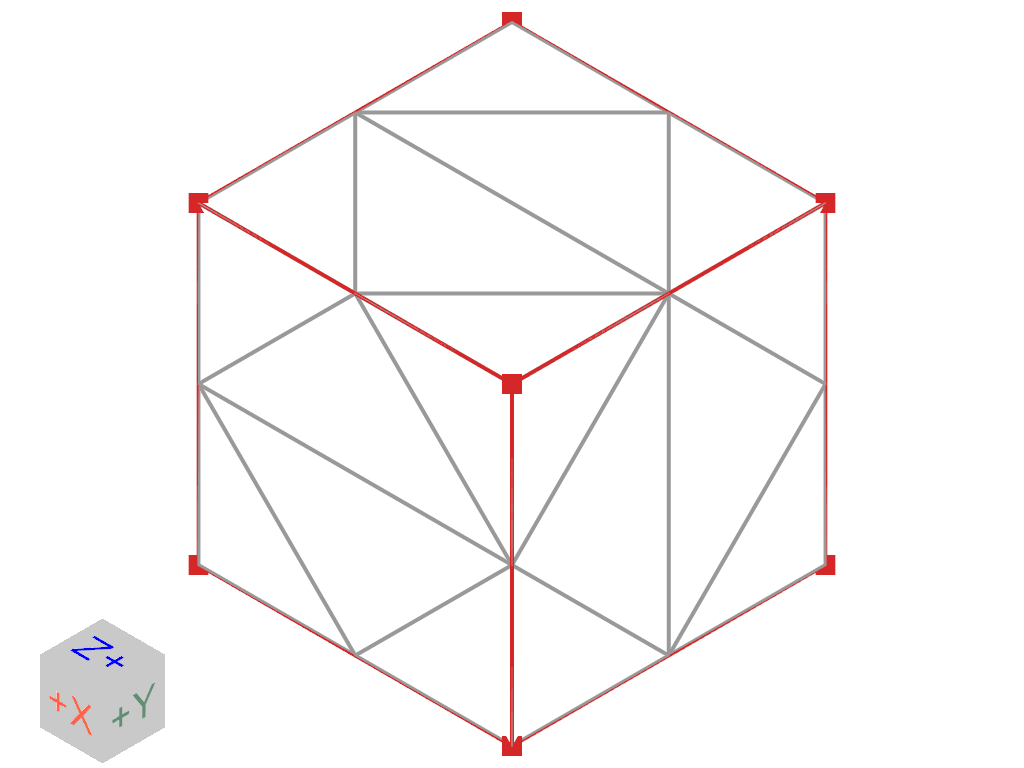
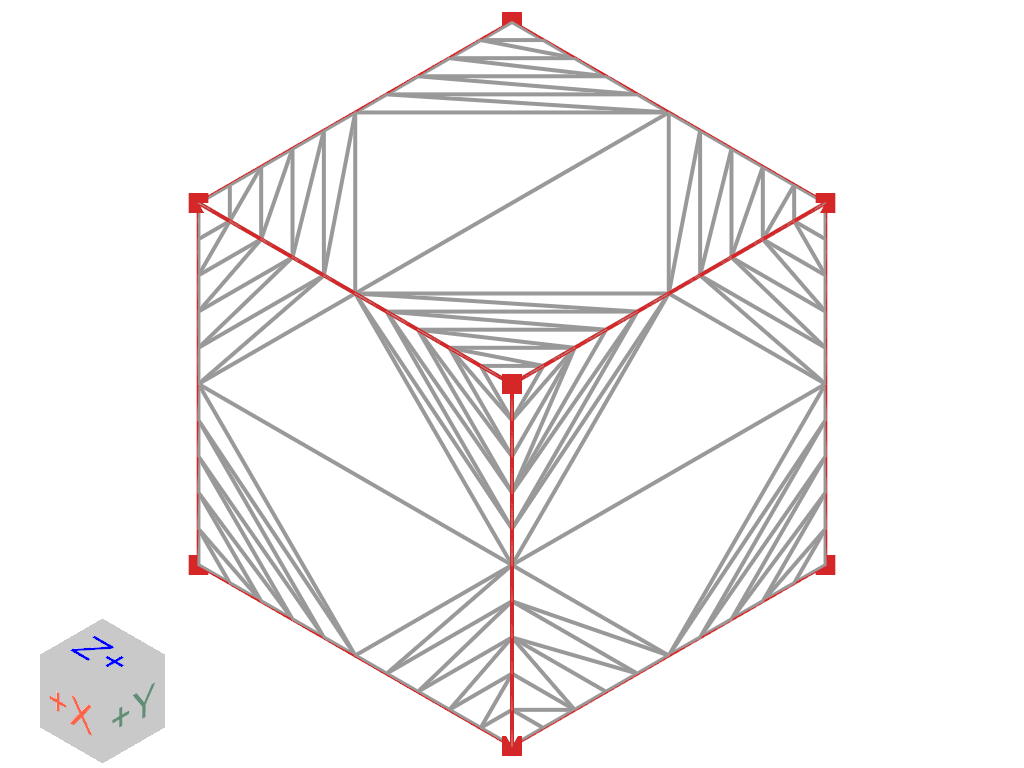
Fix the target size of 3D mesh to make efficient

diff --git a/src/pvgmsh/__init__.py b/src/pvgmsh/__init__.py
@@ -57,8 +57,8 @@ def frontal_delaunay_2d(
 
     >>> mesh
     PolyData (...)
-      N Cells:    90
-      N Points:   58
+      N Cells:    ..
+      N Points:   ..
       N Strips:   0
       X Bounds:   -8.000e+00, 8.000e+00
       Y Bounds:   -8.000e+00, 8.000e+00
@@ -135,12 +135,12 @@ def delaunay_3d(
     >>> import pvgmsh as pm
 
     >>> edge_source = pv.Cube()
-    >>> mesh = pm.delaunay_3d(edge_source, target_size=0.5)
+    >>> mesh = pm.delaunay_3d(edge_source, target_size=0.1)
 
     >>> mesh
     UnstructuredGrid (...)
-      N Cells:    23
-      N Points:   20
+      N Cells:    ...
+      N Points:   ...
       X Bounds:   -5.000e-01, 5.000e-01
       Y Bounds:   -5.000e-01, 5.000e-01
       Z Bounds:   -5.000e-01, 5.000e-01

diff --git a/README.md b/README.md
@@ -74,7 +74,7 @@ We can also generate a 3D mesh.
 
 ```python
 edge_source = pv.Cube()
-mesh = pm.delaunay_3d(edge_source, target_size=0.5)
+mesh = pm.delaunay_3d(edge_source, target_size=0.1)
 ```
 
 <details>
